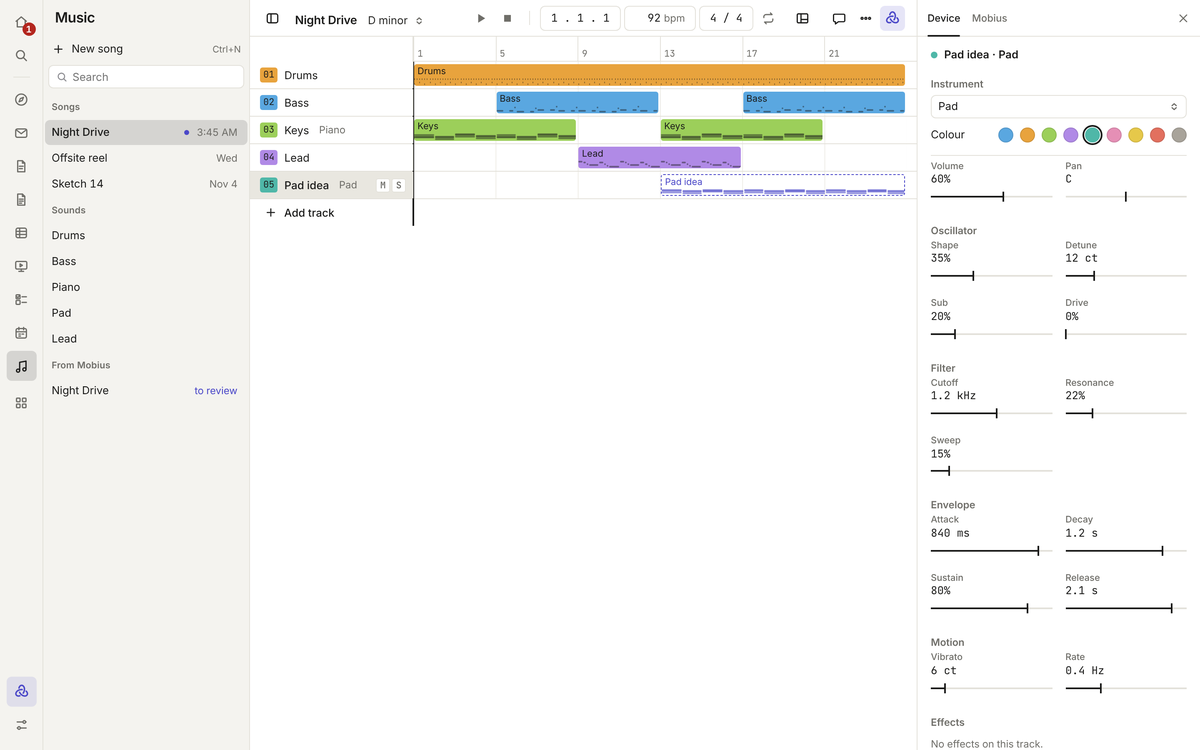
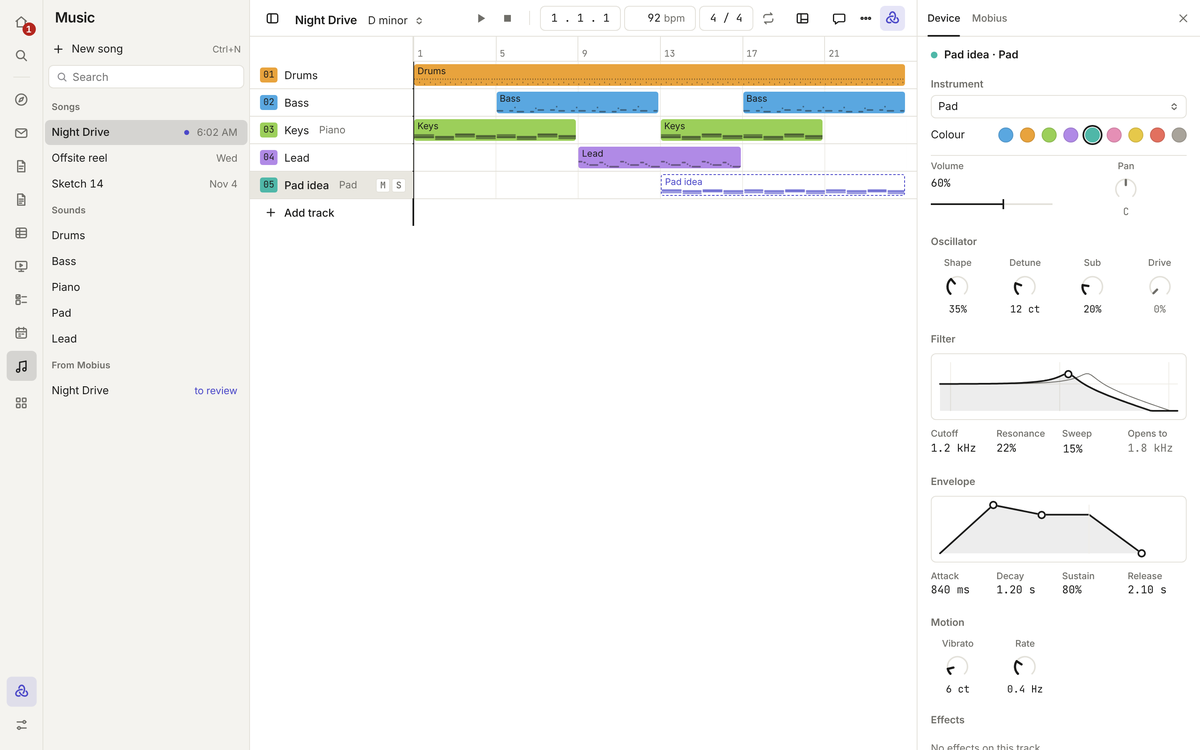
Music: knobs, drawn filter, envelope and EQ, and effects in the shared device chain (#235)
* Music: effects on every track, song delete via Confirm, and the roadmap

Each track gets a chain of effects after its instrument (EQ, Compressor,
Delay, Reverb), each switchable, movable and removable, saved as `fx`.
Deleting a song asks first with the shared Confirm. The Music roadmap
lists instruments, effects, note tools and studio features with status.

Claude-Session: https://claude.ai/code/session_01VRGwo92y9AyxCvHYC61ZVd

* Music: remove PR screenshots

Claude-Session: https://claude.ai/code/session_01VRGwo92y9AyxCvHYC61ZVd

* Music: compact parameter cells and a line on what each effect does

Every Device panel cell uses ParamCell size="compact" (13px mono value,
sentence-case name), and Add effect says what each effect does with
MenuEntry.detail, both from the shared library (#232).

Claude-Session: https://claude.ai/code/session_01VRGwo92y9AyxCvHYC61ZVd

* Music: effect menu rows are found by name alone

Claude-Session: https://claude.ai/code/session_01VRGwo92y9AyxCvHYC61ZVd

* Music: remove PR screenshots

Claude-Session: https://claude.ai/code/session_01VRGwo92y9AyxCvHYC61ZVd

* Music: filter, envelope and EQ drawn as shared graphs

Cutoff and resonance move on FilterGraph, the envelope on EnvelopeGraph,
and a track EQ is three EqGraph bands. The EQ keeps each band's
frequency and the bell's width in the song (lowFreq, midQ, highFreq),
with older files reading as before.

Claude-Session: https://claude.ai/code/session_01VRGwo92y9AyxCvHYC61ZVd
[…]

diff --git a/apps/desktop/src/Studio.tsx b/apps/desktop/src/Studio.tsx
@@ -5,8 +5,8 @@ import { EmptyState } from './EmptyState';
 import { BEATS_PER_BAR, COLOUR_NAMES, DRUMS, INSTRUMENTS, INSTRUMENT_NAMES, KEYS, KIT_DEFAULTS, EFFECT_KINDS, EFFECT_NAMES, EFFECT_PARAMS, freshEffectId, newEffect, type Effect, type EffectKind, KIT_RANGE, kitOf, TRACK_COLOURS, nextColour, SOUND_DEFAULTS, SOUND_RANGE, changedTracks, freshTrackId, keyPitches, noteName, parseSong, soundOf, writeSong, type Instrument, type Song, type SongNote, type KitSound, type Sound, type Track, type TrackColour } from './song-format';
 import type { CSSProperties } from 'react';
 import { play, previewNote, type Player } from './studio-audio';
-import { GRIDS, addNote, clipsOf, effectText, cycleOf, duplicateNotes, fitTracks, nudgeVelocity, isBlack, moveNotes, notesIn, pasteNotes, position, quantizeNotes, removeNotes, setVelocity, snap, soundText, kitText, panText, stretchNotes, type Cycle, type Picked } from './studio-view';
-import { AppSidebar, Button, Confirm, IconButton, Menu, Segmented, Switch, Swatches, PanelTab, ParamCell, ParamGrid, Select, SidebarRow, SidebarSearch, SidebarSection, Slider, ToolbarControls, UndoToast } from './ui';
+import { GRIDS, addNote, clipsOf, effectText, eqBands, eqFromBand, type EqEffect, cycleOf, duplicateNotes, fitTracks, nudgeVelocity, isBlack, moveNotes, notesIn, pasteNotes, position, quantizeNotes, removeNotes, setVelocity, snap, soundText, kitText, panText, stretchNotes, type Cycle, type Picked } from './studio-view';
+import { AppSidebar, Button, Confirm, DeviceChain, DeviceFrame, Knob, EqGraph, EnvelopeGraph, FilterGraph, IconButton, Menu, Segmented, Swatches, PanelTab, ParamCell, ParamGrid, Select, SidebarRow, SidebarSearch, SidebarSection, Slider, ToolbarControls, UndoToast } from './ui';
 import { SideNew } from './SideNew';
 import { statusText } from './notes-state';
 import { dayLabel, timeLabel, weekdayLabel } from './dates';
@@ -157,23 +157,24 @@ const LOG_SOUND = new Set<keyof Sound>(['cutoff', 'attack', 'decay', 'release', 
 /** The Device panel's groups of settings, in the order a sound is made: source, filter, envelope, then movement. */
 const SOUND_GROUPS: readonly { name: string; cells: readonly [keyof Sound, string][] }[] = [
   { name: 'Oscillator', cells: [['shape', 'Shape'], ['detune', 'Detune'], ['sub', 'Sub'], ['drive', 'Drive']] },
-  { name: 'Filter', cells: [['cutoff', 'Cutoff'], ['resonance', 'Resonance'], ['envAmount', 'Sweep']] },
-  { name: 'Envelope', cells: [['attack', 'Attack'], ['decay', 'Decay'], ['sustain', 'Sustain'], ['release', 'Release']] },
+  // The filter graph holds cutoff, resonance and sweep; the envelope is drawn as one shape.
+  { name: 'Filter', cells: [] },
+  { name: 'Envelope', cells: [] },
   { name: 'Motion', cells: [['vibrato', 'Vibrato'], ['rate', 'Rate']] },
 ];
 const KIT_CELLS: readonly { k: keyof KitSound; name: string; step: number; log?: boolean }[] = [
   { k: 'tune', name: 'Tune', step: 1 }, { k: 'decay', name: 'Decay', step: 0.01, log: true }, { k: 'tone', name: 'Tone', step: 0.01 },
 ];
 
-/** One of the Device panel's settings, as the shared parameter cell. Double-click puts it back to the instrument's own. */
+/** One of the Device panel's settings, as a shared knob. Double-click puts it back to the instrument's own. */
 function DeviceSlider({ name, k, value, base, onChange }: { name: string; k: keyof Sound; value: number; base: number; onChange: (v: number) => void }) {
   const { lo, hi } = SOUND_RANGE[k];
-  return <ParamCell size="compact" label={name} value={value} min={lo} max={hi} step={SOUND_STEP[k]} scale={LOG_SOUND.has(k) ? 'log' : 'linear'} reset={base} format={(v) => soundText(k, v)} onChange={onChange} />;
+  return <Knob label={name} value={value} min={lo} max={hi} step={SOUND_STEP[k]} scale={LOG_SOUND.has(k) ? 'log' : 'linear'} reset={base} format={(v) => soundText(k, v)} onChange={onChange} />;
 }
 
 /** How an effect's setting reads: "+3.0 dB", "1.2 kHz", "4:1", "12 ms", "35%", "2.0 s". */
 const EFFECT_CELLS: { [K in EffectKind]: readonly { k: string; name: string; step: number; log?: boolean; origin?: number }[] } = {
-  eq: [{ k: 'low', name: 'Low', step: 0.5 }, { k: 'mid', name: 'Mid', step: 0.5 }, { k: 'midFreq', name: 'Mid freq', step: 10, log: true }, { k: 'high', name: 'High', step: 0.5 }],
+  eq: [],
   compressor: [{ k: 'threshold', name: 'Threshold', step: 1, origin: 0 }, { k: 'ratio', name: 'Ratio', step: 0.1, log: true }, { k: 'attack', name: 'Attack', step: 0.001, log: true }, { k: 'release', name: 'Release', step: 0.01, log: true }, { k: 'makeup', name: 'Makeup', step: 0.5 }],
   delay: [{ k: 'feedback', name: 'Feedback', step: 0.01 }, { k: 'mix', name: 'Mix', step: 0.01 }],
   reverb: [{ k: 'size', name: 'Size', step: 0.1, log: true }, { k: 'damp', name: 'Damp', step: 0.01 }, { k: 'mix', name: 'Mix', step: 0.01 }],
@@ -187,34 +188,33 @@ const EFFECT_DETAILS: { [K in EffectKind]: string } = {
 };
 const DELAY_TIMES = [{ value: '0.25', label: '1/16' }, { value: '0.5', label: '1/8' }, { value: '0.75', label: '3/16' }, { value: '1', label: '1/4' }, { value: '1.5', label: '3/8' }, { value: '2', label: '1/2' }] as const;
 
-/** One effect on the track: its name, on or off, moved up or down the chain or taken off, and its settings. */
-function EffectBlock({ effect, at, count, onChange, onMove, onRemove }: {
-  effect: Effect; at: number; count: number;
+/** One effect on the track, as a shared device: on or off, dragged along the chain by its grip, taken off, and its settings. */
+function EffectBlock({ effect, at, onChange, onRemove }: {
+  effect: Effect; at: number;
   onChange: (fn: (e: Effect) => void, tag?: string) => void;
-  onMove: (by: -1 | 1) => void;
   onRemove: () => void;
 }) {
   const name = EFFECT_NAMES[effect.kind];
   const values = effect as unknown as Record<string, number>;
   return (
-    <section className="studio-fx" aria-label={name} data-off={!effect.on || undefined}>
-      <div className="studio-fx-head">
-        <Switch label={`${name} on`} hideLabel checked={effect.on} onChange={(on) => onChange((e) => { e.on = on; })} />
-        <h5 className="studio-fx-name">{name}</h5>
-        <IconButton label={`Move ${name} up`} disabled={at === 0} icon={<Icon d="M10 15V5M5.5 9.5 10 5l4.5 4.5" />} onClick={() => onMove(-1)} />
-        <IconButton label={`Move ${name} down`} disabled={at === count - 1} icon={<Icon d="M10 5v10M5.5 10.5 10 15l4.5-4.5" />} onClick={() => onMove(1)} />
-        <IconButton label={`Remove ${name}`} icon={<Icon d="M6 6l8 8M14 6l-8 8" />} onClick={onRemove} />
-      </div>
+    <DeviceFrame title={name} index={at} on={effect.on} onToggle={(on) => onChange((e) => { e.on = on; })}
+      actions={<IconButton label={`Remove ${name}`} icon={<Icon d="M6 6l8 8M14 6l-8 8" />} onClick={onRemove} />}>
+      <div className="studio-fx-body">
       {effect.kind === 'delay' && (
         <Segmented label="Time" wide value={String(effect.time) as (typeof DELAY_TIMES)[number]['value']} choices={DELAY_TIMES} onChange={(v) => onChange((e) => { (e as Extract<Effect, { kind: 'delay' }>).time = Number(v); }, 'fx:time')} />
       )}
-      <ParamGrid label={`${name} settings`}>
+      {effect.kind === 'eq' && (
+        <EqGraph label="EQ bands" bands={eqBands(effect)} reset={eqBands(newEffect('eq', effect.id) as EqEffect)}
+          onChange={(i, band) => onChange((e) => { Object.assign(e, eqFromBand(i, band)); }, `fx:band${i}`)} />
+      )}
+      {EFFECT_CELLS[effect.kind].length > 0 && <ParamGrid label={`${name} settings`} columns={4}>
         {EFFECT_CELLS[effect.kind].map(({ k, name: cell, step, log, origin }) => {
           const r = EFFECT_PARAMS[effect.kind][k]!;
-          return <ParamCell size="compact" key={k} label={cell} value={values[k]!} min={r.lo} max={r.hi} step={step} scale={log ? 'log' : 'linear'} origin={origin} reset={r.start} format={(v) => effectText(effect.kind, k, v)} onChange={(v) => onChange((e) => { (e as unknown as Record<string, number>)[k] = v; }, `fx:${k}`)} />;
+          return <Knob key={k} label={cell} value={values[k]!} min={r.lo} max={r.hi} step={step} scale={log ? 'log' : 'linear'} origin={origin} reset={r.start} format={(v) => effectText(effect.kind, k, v)} onChange={(v) => onChange((e) => { (e as unknown as Record<string, number>)[k] = v; }, `fx:${k}`)} />;
         })}
-      </ParamGrid>
-    </section>
+      </ParamGrid>}
+      </div>
+    </DeviceFrame>
   );
 }
 
@@ -235,6 +235,7 @@ export function StudioDevice({ track, onTrack, proposal }: {
   const base = track && track.instrument !== 'drums' ? SOUND_DEFAULTS[track.instrument] : null;
   const kit = track ? kitOf(track) : null;
   const set = (k: keyof Sound, v: number) => onTrack((t) => { if (t.instrument === 'drums') return; t.sound = { ...(t.sound ?? SOUND_DEFAULTS[t.instrument]), [k]: v }; }, `sound:${k}`);
+  const setMany = (patch: Partial<Sound>, tag: string) => onTrack((t) => { if (t.instrument === 'drums') return; t.sound = { ...(t.sound ?? SOUND_DEFAULTS[t.instrument]), ...patch }; }, `sound:${tag}`);
   const setKit = (k: keyof KitSound, v: number) => onTrack((t) => { if (t.instrument !== 'drums') return; t.kit = { ...(t.kit ?? KIT_DEFAULTS), [k]: v }; }, `kit:${k}`);
   return (
     <div className="studio-device" aria-label="Device" role="region">
@@ -249,23 +250,33 @@ export function StudioDevice({ track, onTrack, proposal }: {
               <Swatches label="Colour" value={track.color} colors={TRACK_COLOURS} names={COLOUR_NAMES} onChange={(c) => onTrack((t) => { t.color = c as TrackColour; })} />
             </div>
           </div>
-          <ParamGrid label="Level">
+          <ParamGrid label="Level" columns={2}>
             <ParamCell size="compact" label="Volume" value={track.volume} min={0} max={1} step={0.01} reset={0.8} format={(v) => `${Math.round(v * 100)}%`} onChange={(v) => onTrack((t) => { t.volume = v; }, 'volume')} />
-            <ParamCell size="compact" label="Pan" value={track.pan} min={-1} max={1} step={0.01} reset={0} format={panText} onChange={(v) => onTrack((t) => { t.pan = v; }, 'pan')} />
+            <Knob label="Pan" value={track.pan} min={-1} max={1} step={0.01} reset={0} format={panText} onChange={(v) => onTrack((t) => { t.pan = v; }, 'pan')} />
           </ParamGrid>
           {sound && base && SOUND_GROUPS.map((g) => (
             <section key={g.name} className="studio-dev-section" aria-label={g.name}>
               <h4 className="studio-dev-head">{g.name}</h4>
-              <ParamGrid label={g.name}>
+              {g.name === 'Filter' && (
+                <FilterGraph label="Filter curve" value={{ cutoff: sound.cutoff, resonance: sound.resonance }} reset={{ cutoff: base.cutoff, resonance: base.resonance }}
+                  min={SOUND_RANGE.cutoff.lo} max={SOUND_RANGE.cutoff.hi} envAmount={sound.envAmount}
+                  onEnvAmount={(v) => set('envAmount', v)} envAmountReset={base.envAmount}
+                  onChange={(f) => setMany({ cutoff: f.cutoff, resonance: f.resonance }, 'filter')} />
+              )}
+              {g.name === 'Envelope' && (
+                <EnvelopeGraph label="Envelope shape" value={sound} reset={base}
+                  onChange={(env) => setMany({ attack: env.attack, decay: env.decay, sustain: env.sustain, release: env.release }, 'envelope')} />
+              )}
+              {g.cells.length > 0 && <ParamGrid label={g.name} columns={4}>
                 {g.cells.map(([k, name]) => <DeviceSlider key={k} name={name} k={k} value={sound[k]} base={base[k]} onChange={(v) => set(k, v)} />)}
-              </ParamGrid>
+              </ParamGrid>}
             </section>
           ))}
           {kit && (
             <section className="studio-dev-section" aria-label="Kit">
               <h4 className="studio-dev-head">Kit</h4>
-              <ParamGrid label="Kit">
-                {KIT_CELLS.map(({ k, name, step, log }) => <ParamCell size="compact" key={k} label={name} value={kit[k]} min={KIT_RANGE[k].lo} max={KIT_RANGE[k].hi} step={step} scale={log ? 'log' : 'linear'} origin={KIT_DEFAULTS[k]} reset={KIT_DEFAULTS[k]} format={(v) => kitText(k, v)} onChange={(v) => setKit(k, v)} />)}
+              <ParamGrid label="Kit" columns={4}>
+                {KIT_CELLS.map(({ k, name, step, log }) => <Knob key={k} label={name} value={kit[k]} min={KIT_RANGE[k].lo} max={KIT_RANGE[k].hi} step={step} scale={log ? 'log' : 'linear'} origin={KIT_DEFAULTS[k]} reset={KIT_DEFAULTS[k]} format={(v) => kitText(k, v)} onChange={(v) => setKit(k, v)} />)}
               </ParamGrid>
               <p className="studio-dev-note">Every drum in the kit, together. Each drum has its own row in the notes.</p>
             </section>
@@ -276,12 +287,16 @@ export function StudioDevice({ track, onTrack, proposal }: {
         <section className="studio-dev-section studio-fx-chain" aria-label="Effects">
           <h4 className="studio-dev-head">Effects</h4>
           {(track.fx ?? []).length === 0 && <p className="studio-dev-note">No effects on this track.</p>}
-          {(track.fx ?? []).map((e, i, all) => (
-            <EffectBlock key={e.id} effect={e} at={i} count={all.length}
-              onChange={(fn, tag) => onTrack((t) => { const x = t.fx?.find((f) => f.id === e.id); if (x) fn(x); }, tag ? `${tag}:${e.id}` : undefined)}
-              onMove={(by) => onTrack((t) => { const fx = t.fx ?? []; const j = fx.findIndex((f) => f.id === e.id); const to = j + by; if (j < 0 || to < 0 || to >= fx.length) return; [fx[j], fx[to]] = [fx[to]!, fx[j]!]; })}
-              onRemove={() => onTrack((t) => { t.fx = (t.fx ?? []).filter((f) => f.id !== e.id); if (t.fx.length === 0) delete t.fx; })} />
-          ))}
+          {(track.fx ?? []).length > 0 && (
+            <DeviceChain label={`${track.name} effects`} orientation="vertical" count={track.fx!.length}
+              onMove={(from, to) => onTrack((t) => { const fx = t.fx ?? []; const [moved] = fx.splice(from, 1); if (moved) fx.splice(to, 0, moved); })}>
+              {track.fx!.map((e, i) => (
+                <EffectBlock key={e.id} effect={e} at={i}
+                  onChange={(fn, tag) => onTrack((t) => { const x = t.fx?.find((f) => f.id === e.id); if (x) fn(x); }, tag ? `${tag}:${e.id}` : undefined)}
+                  onRemove={() => onTrack((t) => { t.fx = (t.fx ?? []).filter((f) => f.id !== e.id); if (t.fx.length === 0) delete t.fx; })} />
+              ))}
+            </DeviceChain>
+          )}
           <Menu label="Add effect" entries={EFFECT_KINDS.map((k) => ({ label: EFFECT_NAMES[k], detail: EFFECT_DETAILS[k], run: () => onTrack((t) => { t.fx = [...(t.fx ?? []), newEffect(k, freshEffectId(t))]; }) }))}
             trigger={<Button kind="quiet" icon={<Icon d="M10 4.5v11M4.5 10h11" />}>Add effect</Button>} />
         </section>

diff --git a/apps/desktop/src/song-format.ts b/apps/desktop/src/song-format.ts
@@ -51,14 +51,15 @@ export function nextColour(tracks: readonly { color: TrackColour }[]): TrackColo
 /**
  * An effect on a track, in the order the sound goes through them. Each can be switched off (`on`) and keeps its settings:
  *
- * - `eq`: `low` and `high` shelves and a `mid` bell at `midFreq` Hz, each in dB (-18 to +18).
+ * - `eq`: a `low` shelf below `lowFreq`, a `mid` bell at `midFreq` Hz `midQ` wide, and a `high` shelf above `highFreq`,
+ *   each in dB (-18 to +18). Older files without the frequencies get 120 Hz, Q 1 and 6 kHz.
  * - `compressor`: above `threshold` dB it turns the level down by `ratio` to 1, reacting in `attack` and letting go in
  *   `release` seconds, then lifts the whole track by `makeup` dB.
  * - `delay`: echoes `time` beats apart, each `feedback` (0 to 0.9) as loud as the last, blended in by `mix` (0 to 1).
  * - `reverb`: a room that rings for `size` seconds, its highs softened by `damp` (0 to 1), blended in by `mix`.
  */
 export type Effect =
-  | { id: string; kind: 'eq'; on: boolean; low: number; mid: number; midFreq: number; high: number }
+  | { id: string; kind: 'eq'; on: boolean; low: number; lowFreq: number; mid: number; midFreq: number; midQ: number; high: number; highFreq: number }
   | { id: string; kind: 'compressor'; on: boolean; threshold: number; ratio: number; attack: number; release: number; makeup: number }
   | { id: string; kind: 'delay'; on: boolean; time: number; feedback: number; mix: number }
   | { id: string; kind: 'reverb'; on: boolean; size: number; damp: number; mix: number };
@@ -67,7 +68,11 @@ export const EFFECT_KINDS: EffectKind[] = ['eq', 'compressor', 'delay', 'reverb'
 export const EFFECT_NAMES: Record<EffectKind, string> = { eq: 'EQ', compressor: 'Compressor', delay: 'Delay', reverb: 'Reverb' };
 /** Each effect's settings: range, and where a new one starts. */
 export const EFFECT_PARAMS: { [K in EffectKind]: Record<string, { lo: number; hi: number; start: number }> } = {
-  eq: { low: { lo: -18, hi: 18, start: 0 }, mid: { lo: -18, hi: 18, start: 0 }, midFreq: { lo: 200, hi: 8000, start: 1000 }, high: { lo: -18, hi: 18, start: 0 } },
+  eq: {
+    low: { lo: -18, hi: 18, start: 0 }, lowFreq: { lo: 30, hi: 400, start: 120 },
+    mid: { lo: -18, hi: 18, start: 0 }, midFreq: { lo: 200, hi: 8000, start: 1000 }, midQ: { lo: 0.3, hi: 8, start: 1 },
+    high: { lo: -18, hi: 18, start: 0 }, highFreq: { lo: 2000, hi: 16000, start: 6000 },
+  },
   compressor: { threshold: { lo: -60, hi: 0, start: -18 }, ratio: { lo: 1, hi: 20, start: 4 }, attack: { lo: 0.001, hi: 0.5, start: 0.01 }, release: { lo: 0.02, hi: 1, start: 0.2 }, makeup: { lo: 0, hi: 24, start: 0 } },
   delay: { time: { lo: 0.25, hi: 2, start: 0.75 }, feedback: { lo: 0, hi: 0.9, start: 0.35 }, mix: { lo: 0, hi: 1, start: 0.25 } },
   reverb: { size: { lo: 0.3, hi: 8, start: 2 }, damp: { lo: 0, hi: 1, start: 0.4 }, mix: { lo: 0, hi: 1, start: 0.25 } },

diff --git a/apps/desktop/e2e/studio.spec.ts b/apps/desktop/e2e/studio.spec.ts
@@ -73,7 +73,7 @@ test('a song is tracks of notes: added by clicking, with tracks to add, mute and
 
   // The Device panel sets how the chosen track sounds, kept in the song.
   await tracks().getByRole('listitem', { name: 'Keys' }).click();
-  const cutoff = shell().getByRole('region', { name: 'Device' }).getByRole('slider', { name: 'Cutoff' });
+  const cutoff = shell().getByRole('region', { name: 'Device' }).getByRole('slider', { name: 'Cutoff and resonance' });
   await cutoff.focus();
   await shell().keyboard.press('ArrowLeft');
   await expect.poll(() => (saved().tracks[0] as { sound?: { cutoff: number } }).sound?.cutoff).toBeLessThan(5000);
@@ -168,7 +168,7 @@ test('a track is panned and a drum kit is tuned in the Device panel, kept in the
   await expect(pan).toHaveAttribute('aria-valuetext', /^L \d+$/);
   // A drums track has a kit instead of an oscillator: tuning it moves every drum together.
   await tracks().getByRole('listitem', { name: 'Drums' }).click();
-  await expect(device.getByRole('slider', { name: 'Cutoff' })).toHaveCount(0);
+  await expect(device.getByRole('slider', { name: 'Cutoff and resonance' })).toHaveCount(0);
   const tune = device.getByRole('slider', { name: 'Tune' });
   await tune.focus();
   await shell().keyboard.press('ArrowRight');
@@ -185,7 +185,9 @@ test('effects are added to a track, switched off and moved, kept in the song', a
     await shell().getByRole('menuitem', { name, exact: true }).click();
   }
   await expect.poll(() => (saved().tracks[0] as { fx?: { kind: string }[] }).fx?.map((e) => e.kind)).toEqual(['delay', 'eq']);
-  await device.getByRole('button', { name: 'Move EQ up' }).click();
+  // Each effect is a device in the chain: its grip moves it with the arrow keys (or a drag).
+  await device.getByRole('button', { name: 'Move EQ', exact: true }).focus();
+  await shell().keyboard.press('ArrowUp');
   await device.getByRole('switch', { name: 'Delay on' }).click();
   await expect.poll(() => (saved().tracks[0] as { fx?: { kind: string; on: boolean }[] }).fx?.map((e) => `${e.kind} ${e.on}`)).toEqual(['eq true', 'delay false']);
   await device.getByRole('button', { name: 'Remove Delay' }).click();

diff --git a/apps/desktop/src/studio-view.test.ts b/apps/desktop/src/studio-view.test.ts
@@ -1,5 +1,5 @@
 import { describe, expect, it } from 'vitest';
-import { addNote, clipsOf, effectText, fromSlider, kitText, panText, soundText, toSlider, cycleOf, fitTracks, songBeat, nudgeVelocity, duplicateNotes, moveNotes, notesIn, pasteNotes, position, quantizeNotes, removeNotes, setVelocity, snap, stretchNotes } from './studio-view';
+import { addNote, clipsOf, effectText, eqBands, eqFromBand, fromSlider, kitText, panText, soundText, toSlider, cycleOf, fitTracks, songBeat, nudgeVelocity, duplicateNotes, moveNotes, notesIn, pasteNotes, position, quantizeNotes, removeNotes, setVelocity, snap, stretchNotes } from './studio-view';
 
 const n = (pitch: number, start: number, length = 1, velocity = 0.8) => ({ pitch, start, length, velocity });
 const notes = [n(57, 0, 4), n(60, 0, 4), n(64, 4)];
@@ -117,5 +117,15 @@ describe('the Device panel\'s words for an effect', () => {
     expect([effectText('eq', 'midFreq', 1000), effectText('eq', 'midFreq', 450)]).toEqual(['1.0 kHz', '450 Hz']);
     expect([effectText('compressor', 'threshold', -18), effectText('compressor', 'ratio', 4), effectText('compressor', 'attack', 0.01)]).toEqual(['−18 dB', '4:1', '10 ms']);
     expect([effectText('reverb', 'size', 2), effectText('delay', 'mix', 0.25)]).toEqual(['2.0 s', '25%']);
+  });
+});
+
+describe('a track EQ on the graph', () => {
+  it('is three bands, and a moved band comes back as the EQ\'s settings, kept to their ranges', () => {
+    const eq = { id: 'fx1', kind: 'eq' as const, on: true, low: 2, lowFreq: 120, mid: -3, midFreq: 1000, midQ: 1, high: 0, highFreq: 6000 };
+    expect(eqBands(eq).map((b) => [b.type, b.freq, b.gain])).toEqual([['lowshelf', 120, 2], ['peak', 1000, -3], ['highshelf', 6000, 0]]);
+    expect(eqFromBand(1, { type: 'peak', freq: 450, gain: 30, q: 2 })).toEqual({ mid: 18, midFreq: 450, midQ: 2 });
+    expect(eqFromBand(0, { type: 'lowshelf', freq: 5, gain: -4, q: 0.7 })).toEqual({ low: -4, lowFreq: 30 });
+    expect(eqFromBand(2, { type: 'highshelf', freq: 9000, gain: 1.5, q: 0.7 })).toEqual({ high: 1.5, highFreq: 9000 });
   });
 });

diff --git a/apps/desktop/src/studio-view.ts b/apps/desktop/src/studio-view.ts
@@ -1,4 +1,5 @@
-import { BEATS_PER_BAR, type EffectKind, type KitSound, type SongNote, type Sound } from './song-format';
+import type { EqBand } from './ui';
+import { BEATS_PER_BAR, EFFECT_PARAMS, type Effect, type EffectKind, type KitSound, type SongNote, type Sound } from './song-format';
 
 /**
  * The piano roll's editing, kept apart from the screen so it can be tested: notes picked by their place in the track,
@@ -207,4 +208,21 @@ export function effectText(kind: EffectKind, k: string, v: number): string {
   if (k === 'attack' || k === 'release') return v >= 1 ? `${v.toFixed(1)} s` : `${Math.round(v * 1000)} ms`;
   if (k === 'size') return `${v.toFixed(1)} s`;
   return `${Math.round(v * 100)}%`;
+}
+
+export type EqEffect = Extract<Effect, { kind: 'eq' }>;
+/** A track EQ as the shared graph's three bands: low shelf, bell, high shelf. */
+export function eqBands(e: EqEffect): EqBand[] {
+  return [
+    { type: 'lowshelf', freq: e.lowFreq, gain: e.low, q: 0.7 },
+    { type: 'peak', freq: e.midFreq, gain: e.mid, q: e.midQ },
+    { type: 'highshelf', freq: e.highFreq, gain: e.high, q: 0.7 },
+  ];
+}
+/** A band moved on the graph, back as the EQ's own settings, kept to their ranges. */
+export function eqFromBand(i: number, band: EqBand): Partial<EqEffect> {
+  const r = EFFECT_PARAMS.eq, c = (k: string, v: number) => Math.min(r[k]!.hi, Math.max(r[k]!.lo, v));
+  if (i === 0) return { low: c('low', band.gain), lowFreq: c('lowFreq', band.freq) };
+  if (i === 1) return { mid: c('mid', band.gain), midFreq: c('midFreq', band.freq), midQ: c('midQ', band.q) };
+  return { high: c('high', band.gain), highFreq: c('highFreq', band.freq) };
 }

diff --git a/apps/desktop/src/studio.css b/apps/desktop/src/studio.css
@@ -92,6 +92,7 @@
 .studio-dev-title { display: flex; align-items: center; gap: var(--sp-2); margin: 0 0 var(--sp-2); font-size: var(--fs-md); font-weight: var(--fw-semibold); color: var(--ink); }
 .studio-dev-dot { flex: none; display: inline-block; width: var(--sp-2); height: var(--sp-2); border-radius: var(--radius-pill); background: var(--tc); }
 .studio-dev-head { margin: var(--sp-4) 0 0; font-size: var(--fs-sm); font-weight: var(--fw-semibold); color: var(--muted); }
+.studio-dev-section { display: grid; gap: var(--sp-2); }
 .studio-dev-group { display: grid; padding-bottom: var(--sp-2); border-bottom: var(--hairline-w) solid var(--line); }
 .studio-dev-row { padding: var(--sp-1) 0; }
 .studio-colour-row { display: flex; align-items: center; justify-content: space-between; gap: var(--sp-2); min-height: var(--row-list); color: var(--ink); }
@@ -168,9 +169,6 @@
 }
 
 /* ---------- Effects: each a block in the chain, its head a row of on/off, name and moves ---------- */
-.studio-fx { display: grid; gap: var(--sp-2); margin-top: var(--sp-2); padding: var(--sp-2) var(--sp-3) var(--sp-3); border: var(--hairline-w) solid var(--line); border-radius: var(--radius-panel); }
-.studio-fx[data-off] .ui-param-grid, .studio-fx[data-off] .ui-segmented { opacity: 0.45; }
-.studio-fx-head { display: flex; align-items: center; gap: var(--sp-1); }
-.studio-fx-name { flex: 1; margin: 0 0 0 var(--sp-1); font-size: var(--fs-md); font-weight: var(--fw-semibold); color: var(--ink); }
 .studio-fx-chain { display: grid; }
+.studio-fx-body { display: grid; gap: var(--sp-3); }
 .studio-fx-chain > .ui-button { justify-self: start; margin-top: var(--sp-2); }

diff --git a/apps/desktop/src/studio-audio.ts b/apps/desktop/src/studio-audio.ts
@@ -201,9 +201,9 @@ export function effectChain(ctx: BaseAudioContext, input: AudioNode, fx: readonl
   for (const e of fx) {
     if (!e.on) continue;
     if (e.kind === 'eq') {
-      const low = ctx.createBiquadFilter(); low.type = 'lowshelf'; low.frequency.value = 120; low.gain.value = e.low;
-      const mid = ctx.createBiquadFilter(); mid.type = 'peaking'; mid.frequency.value = e.midFreq; mid.Q.value = 1; mid.gain.value = e.mid;
-      const high = ctx.createBiquadFilter(); high.type = 'highshelf'; high.frequency.value = 6000; high.gain.value = e.high;
+      const low = ctx.createBiquadFilter(); low.type = 'lowshelf'; low.frequency.value = e.lowFreq; low.gain.value = e.low;
+      const mid = ctx.createBiquadFilter(); mid.type = 'peaking'; mid.frequency.value = e.midFreq; mid.Q.value = e.midQ; mid.gain.value = e.mid;
+      const high = ctx.createBiquadFilter(); high.type = 'highshelf'; high.frequency.value = e.highFreq; high.gain.value = e.high;
       at.connect(low); low.connect(mid); mid.connect(high); at = high;
     } else if (e.kind === 'compressor') {
       const comp = ctx.createDynamicsCompressor();

diff --git a/apps/desktop/src/song-format.test.ts b/apps/desktop/src/song-format.test.ts
@@ -102,7 +102,7 @@ describe('a track\'s effects', () => {
     ] }));
     expect(s.tracks[0]!.fx).toEqual([
       { id: 'fx1', kind: 'delay', on: true, time: 2, feedback: 0.5, mix: EFFECT_PARAMS.delay.mix!.start },
-      { id: 'fx3', kind: 'eq', on: false, low: -18, mid: 0, midFreq: 1000, high: 0 },
+      { id: 'fx3', kind: 'eq', on: false, low: -18, lowFreq: 120, mid: 0, midFreq: 1000, midQ: 1, high: 0, highFreq: 6000 },
     ]);
     expect(s.tracks[1]!.fx).toBeUndefined();
     expect(song(writeSong(s)).tracks[0]!.fx).toEqual(s.tracks[0]!.fx);

diff --git a/docs/apps/create.md b/docs/apps/create.md
@@ -102,18 +102,21 @@ A small studio for writing songs as notes.
 - **The Device panel** sets how the chosen track sounds. It shows the track's instrument and colour, then its level
   (Volume and Pan), and then its sound in four groups:
   - Oscillator: Shape (sine to saw), Detune, Sub (a sine an octave down) and Drive.
-  - Filter: Cutoff, Resonance, and Sweep, which opens the filter at each note's start and closes it over the decay.
-  - Envelope: Attack, Decay, Sustain and Release.
+  - Filter: a curve with one point to drag, across for Cutoff and up for Resonance. Sweep, in the row of values under
+    it (drag it or type), opens the filter at each note's start and closes it over the decay; the thin line and Opens to
+    show how far.
+  - Envelope: Attack, Decay, Sustain and Release drawn as one shape, with a handle at each corner to drag.
   - Motion: Vibrato and its Rate.
 
-  A drums track has a Kit instead: Tune (in semitones), Decay and Tone, which move every drum together. Each setting
-  is a labelled cell with its value in mono and a slider under it. Arrows nudge it, Shift goes further, and
-  double-click puts it back. Everything is saved in the song (`pan`, `sound`, `kit`), so Mobius can read and set it
+  A drums track has a Kit instead: Tune (in semitones), Decay and Tone, which move every drum together. Volume is a
+  slider; the other settings are knobs, four to a row, with their value in mono under each. Drag a knob up or down
+  (Shift for finer), or use the arrows, and double-click it to put it back. Everything is saved in the song (`pan`, `sound`, `kit`), so Mobius can read and set it
   too.
-- **Effects** follow the sound in the Device panel. **Add effect** puts an EQ (Low, Mid and its frequency, High), a
+- **Effects** follow the sound in the Device panel. **Add effect** puts an EQ (three numbered bands on a curve: drag a
+  band across for its frequency and up for its level, and scroll on the bell to make it wider or narrower), a
   Compressor (Threshold, Ratio, Attack, Release, Makeup), a Delay (a time in notes, Feedback, Mix) or a Reverb (Size,
-  Damp, Mix) at the end of the track's chain. Each one has a switch to turn it off, arrows to move it up or down the
-  chain, and a button to remove it. They are saved in the song as `fx`.
+  Damp, Mix) at the end of the track's chain. Each one has a switch to turn it off, a grip to drag it up or down the
+  chain (or move it with the arrow keys), and a button to remove it. They are saved in the song as `fx`.
 - **The notes editor** opens under the tracks when you double-click a clip: draw, move and stretch notes, select with
   a box, snap to the grid. Drums get a tall row per drum, named in full. Under it, the **velocity lane** has one bar
   per note: drag up for louder, down for softer. Drag the divider, or press Up and Down on it, for more room either

diff --git a/docs/reference/music-roadmap.md b/docs/reference/music-roadmap.md
@@ -37,11 +37,11 @@ and Mobius can set them like anything else in the song (`fx`).
 
 | Effect | What it does | Status |
 | --- | --- | --- |
-| EQ | Low, Mid (with its frequency) and High. | Building |
-| Compressor | Threshold, Ratio, Attack, Release and Makeup. | Building |
-| Delay | Echoes in step with the tempo, with Feedback and Mix. | Building |
-| Reverb | A room from short to long, with Damp and Mix. | Building |
-| Drawn EQ | Bands you drag on a curve, replacing the three knobs. | Next (library `EqGraph`) |
+| EQ | Low, Mid (with its frequency) and High. | Have |
+| Compressor | Threshold, Ratio, Attack, Release and Makeup. | Have |
+| Delay | Echoes in step with the tempo, with Feedback and Mix. | Have |
+| Reverb | A room from short to long, with Damp and Mix. | Have |
+| Drawn EQ | Bands you drag on a curve: frequency, level and width. | Building |
 | Saturation and lo-fi | Warmth, clipping, fewer bits and a lower sample rate. | Next |
 | Moving filter | A filter that sweeps with the tempo or follows the level. | Next |
 | Chorus, phaser and flanger | Thickening and swirling. | Next |
